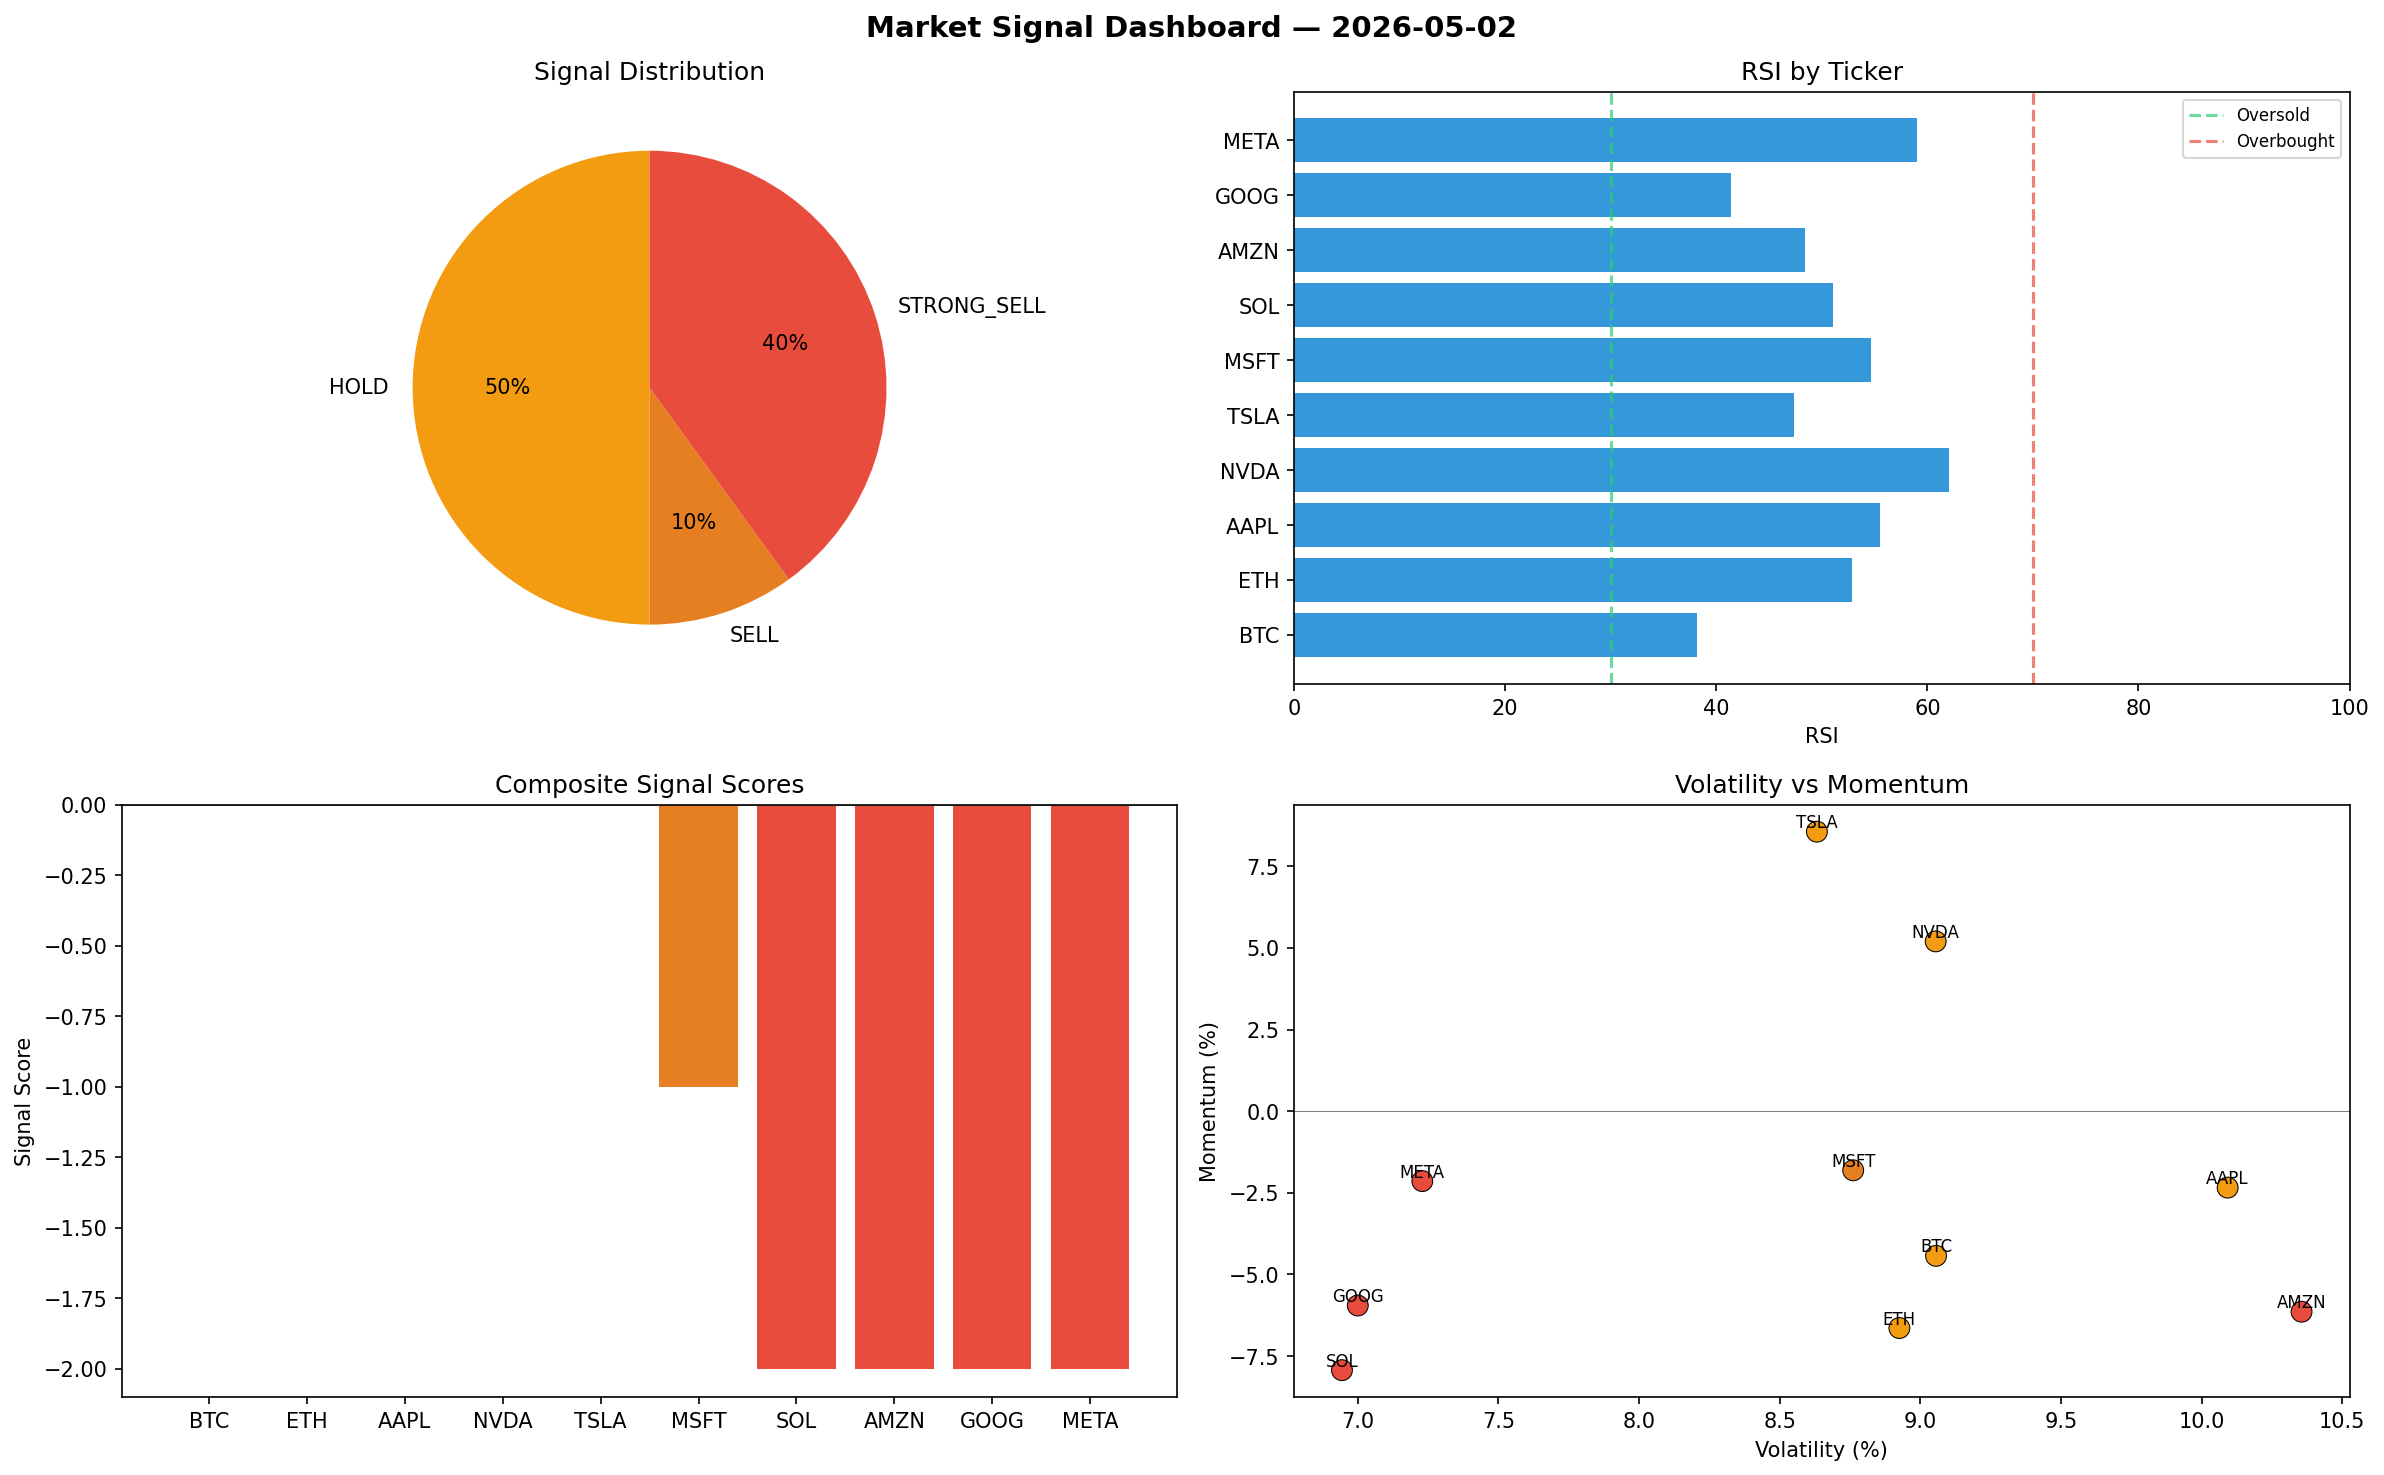
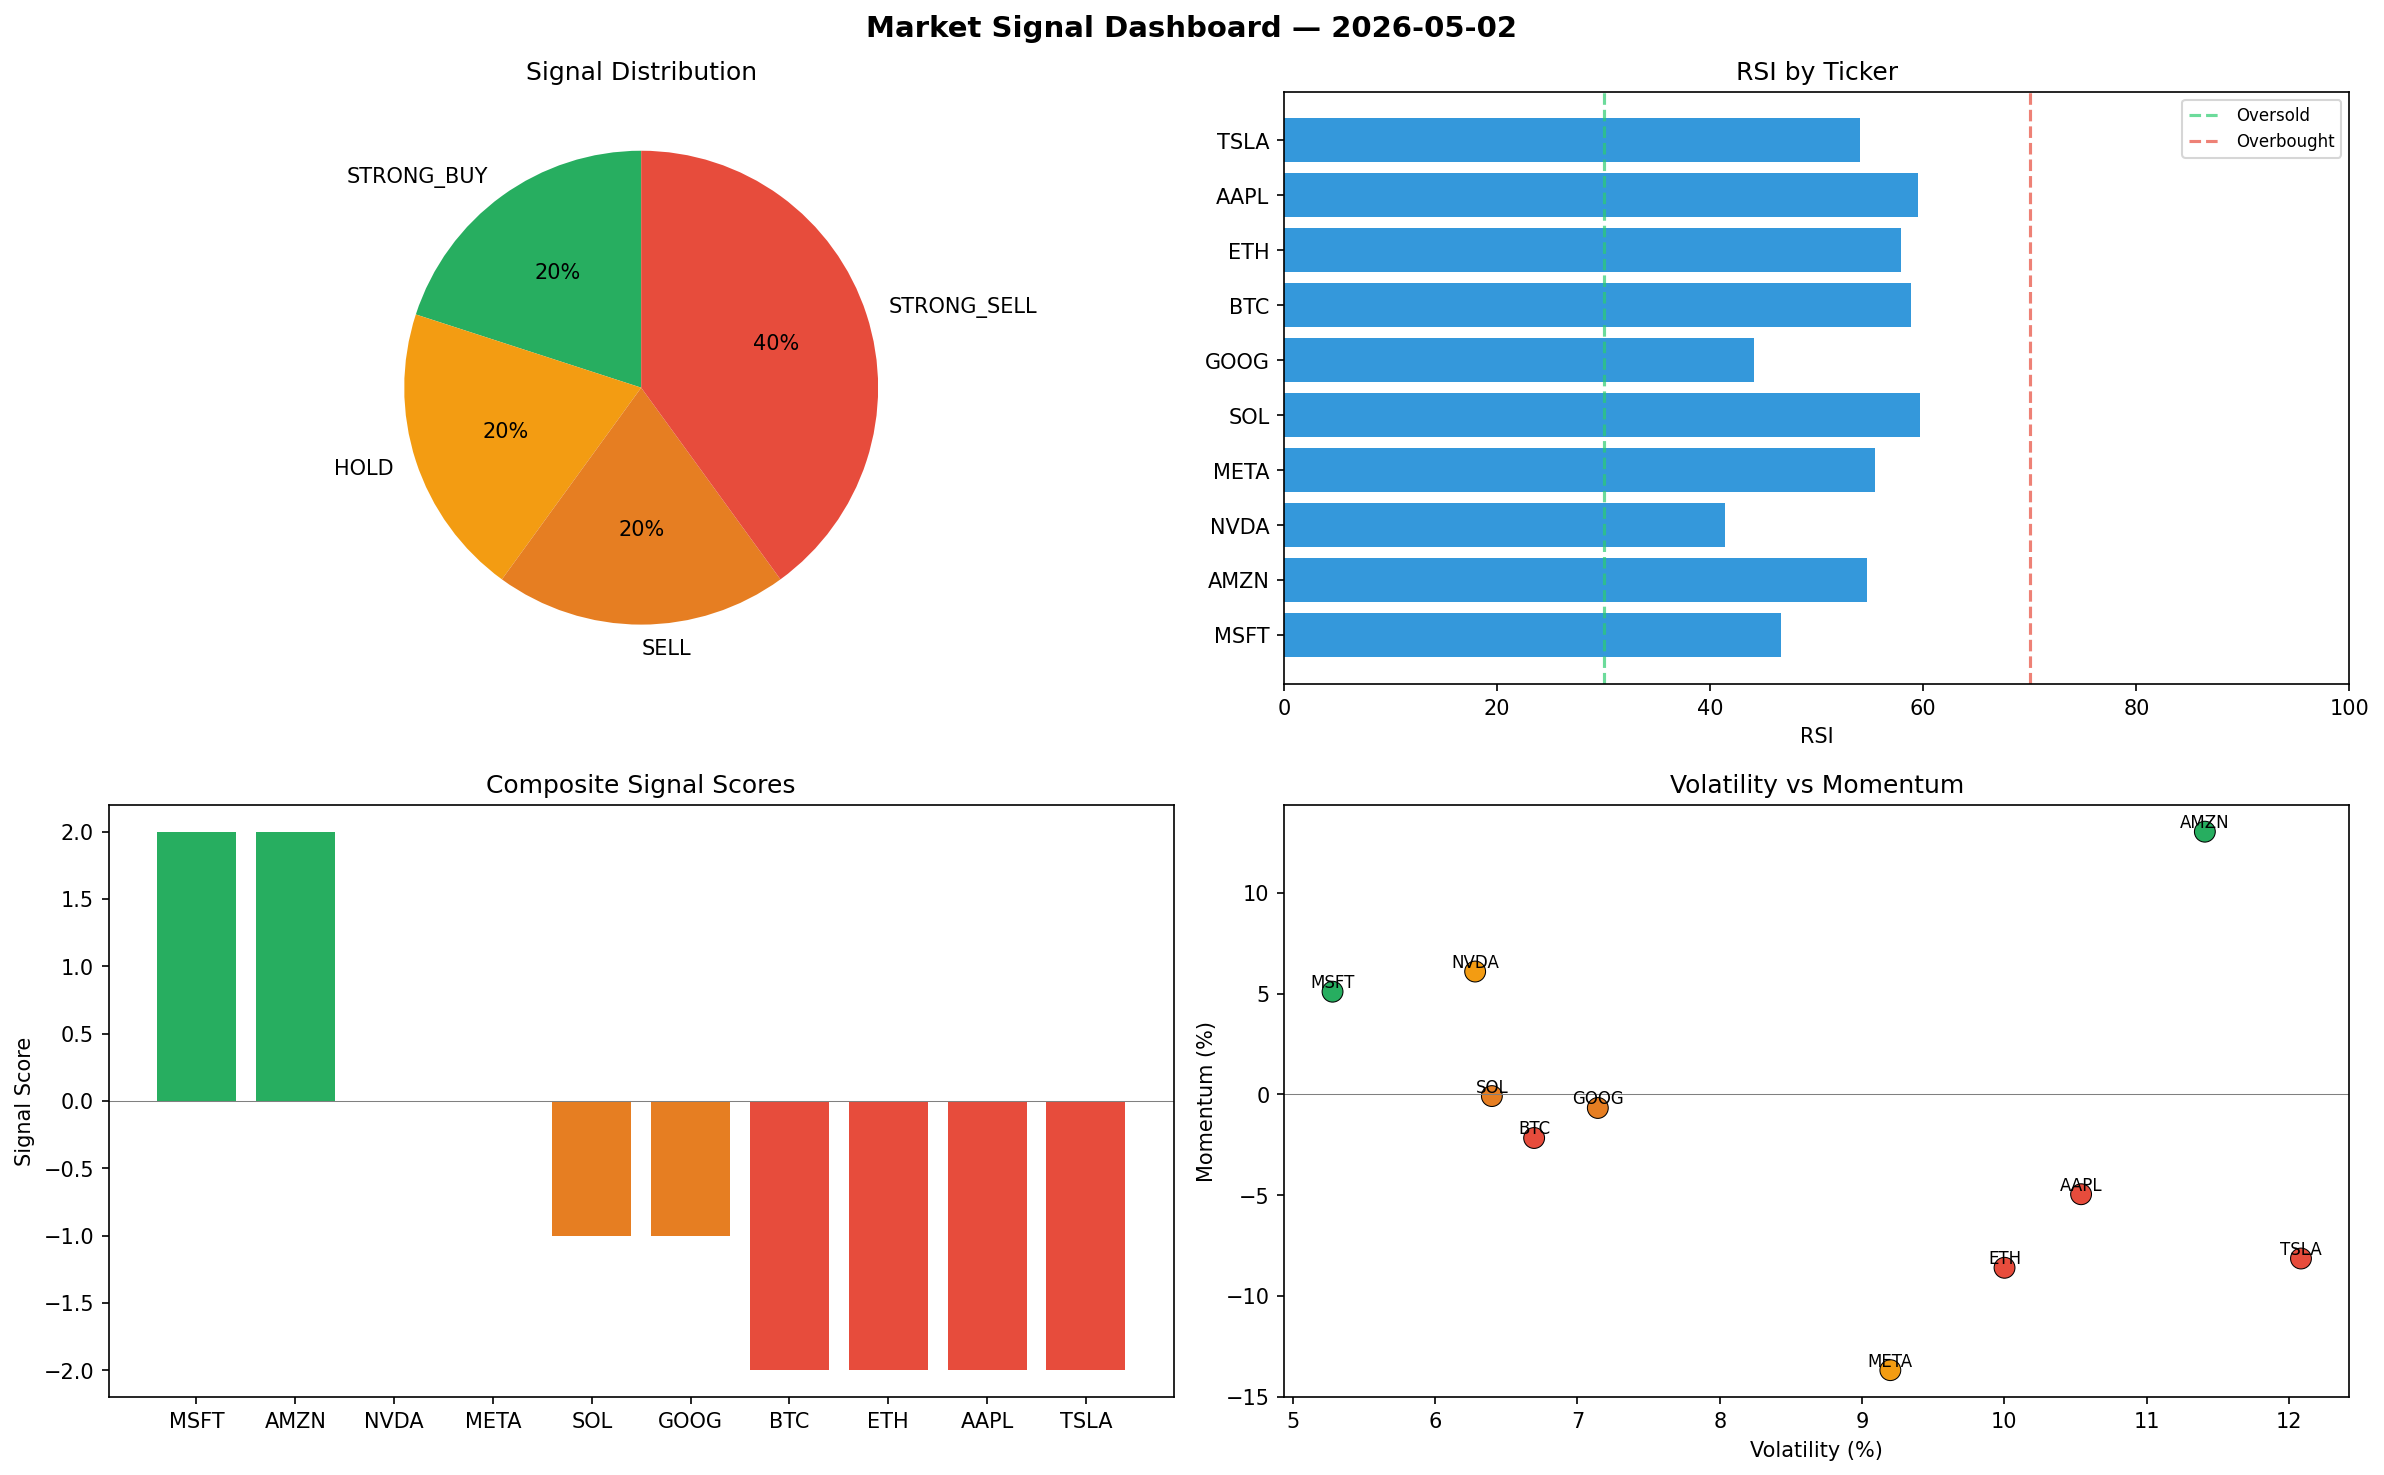
automated-bots: market signals 2026-05-02T09:38

diff --git a/logs/2026-05-02.md b/logs/2026-05-02.md
@@ -1,6 +1,6 @@
 # Market Signal Report — 2026-05-02
 
-**Run ID:** `3dbac122a8` | **Buy:** 0 | **Sell:** 5 | **Hold:** 5
+**Run ID:** `485343da6a` | **Buy:** 2 | **Sell:** 6 | **Hold:** 2
 
 ![Dashboard](2026-05-02_dashboard.png)
 
@@ -8,28 +8,28 @@
 
 | Ticker | Price | Signal | Score | RSI | Momentum | Confidence |
 |--------|-------|--------|-------|-----|----------|------------|
-| BTC | $2756.97 | **HOLD** | 0 | 38.16 | -0.0443 | 0.0 |
-| ETH | $4478.45 | **HOLD** | 0 | 52.85 | -0.0664 | 0.0 |
-| AAPL | $4682.08 | **HOLD** | 0 | 55.47 | -0.0234 | 0.0 |
-| NVDA | $1282.29 | **HOLD** | 0 | 62.06 | 0.052 | 0.0 |
-| TSLA | $4900.67 | **HOLD** | 0 | 47.34 | 0.0856 | 0.0 |
-| MSFT | $4559.38 | **SELL** | -1 | 54.68 | -0.0181 | 0.25 |
-| SOL | $1365.5 | **STRONG_SELL** | -2 | 51.07 | -0.0793 | 0.5 |
-| AMZN | $1657.8 | **STRONG_SELL** | -2 | 48.44 | -0.0614 | 0.5 |
-| GOOG | $1697.52 | **STRONG_SELL** | -2 | 41.43 | -0.0595 | 0.5 |
-| META | $1152.72 | **STRONG_SELL** | -2 | 59.02 | -0.0214 | 0.5 |
+| MSFT | $4995.41 | **STRONG_BUY** | 2 | 46.62 | 0.051 | 0.5 |
+| AMZN | $3387.82 | **STRONG_BUY** | 2 | 54.67 | 0.1304 | 0.5 |
+| NVDA | $1617.84 | **HOLD** | 0 | 41.37 | 0.061 | 0.0 |
+| META | $2348.15 | **HOLD** | 0 | 55.44 | -0.1368 | 0.0 |
+| SOL | $4473.5 | **SELL** | -1 | 59.66 | -0.0008 | 0.25 |
+| GOOG | $13.36 | **SELL** | -1 | 44.08 | -0.0067 | 0.25 |
+| BTC | $3883.85 | **STRONG_SELL** | -2 | 58.83 | -0.0216 | 0.5 |
+| ETH | $1090.01 | **STRONG_SELL** | -2 | 57.89 | -0.086 | 0.5 |
+| AAPL | $344.42 | **STRONG_SELL** | -2 | 59.5 | -0.0495 | 0.5 |
+| TSLA | $4186.54 | **STRONG_SELL** | -2 | 54.05 | -0.0814 | 0.5 |
 
 ## Delta vs Yesterday
 
 | Ticker | Today | Yesterday | Price Change | Signal Changed |
 |--------|-------|-----------|-------------|----------------|
-| BTC | HOLD | BUY | 📈 284.12% | ⚠ YES |
-| ETH | HOLD | HOLD | 📈 42.39% | — |
-| AAPL | HOLD | SELL | 📈 275.67% | ⚠ YES |
-| NVDA | HOLD | BUY | 📉 -51.6% | ⚠ YES |
-| TSLA | HOLD | STRONG_BUY | 📉 -5.74% | ⚠ YES |
-| MSFT | SELL | HOLD | 📈 224.72% | ⚠ YES |
-| SOL | STRONG_SELL | STRONG_SELL | 📉 -71.5% | — |
-| AMZN | STRONG_SELL | STRONG_BUY | 📈 268.49% | ⚠ YES |
-| GOOG | STRONG_SELL | STRONG_BUY | 📉 -58.44% | ⚠ YES |
-| META | STRONG_SELL | STRONG_SELL | 📉 -2.97% | — |
+| MSFT | STRONG_BUY | HOLD | 📈 255.77% | ⚠ YES |
+| AMZN | STRONG_BUY | STRONG_BUY | 📈 653.03% | — |
+| NVDA | HOLD | BUY | 📉 -38.94% | ⚠ YES |
+| META | HOLD | STRONG_SELL | 📈 97.66% | ⚠ YES |
+| SOL | SELL | STRONG_SELL | 📉 -6.63% | ⚠ YES |
+| GOOG | SELL | STRONG_BUY | 📉 -99.67% | ⚠ YES |
+| BTC | STRONG_SELL | BUY | 📈 441.12% | ⚠ YES |
+| ETH | STRONG_SELL | HOLD | 📉 -65.34% | ⚠ YES |
+| AAPL | STRONG_SELL | SELL | 📉 -72.37% | ⚠ YES |
+| TSLA | STRONG_SELL | STRONG_BUY | 📉 -19.47% | ⚠ YES |
